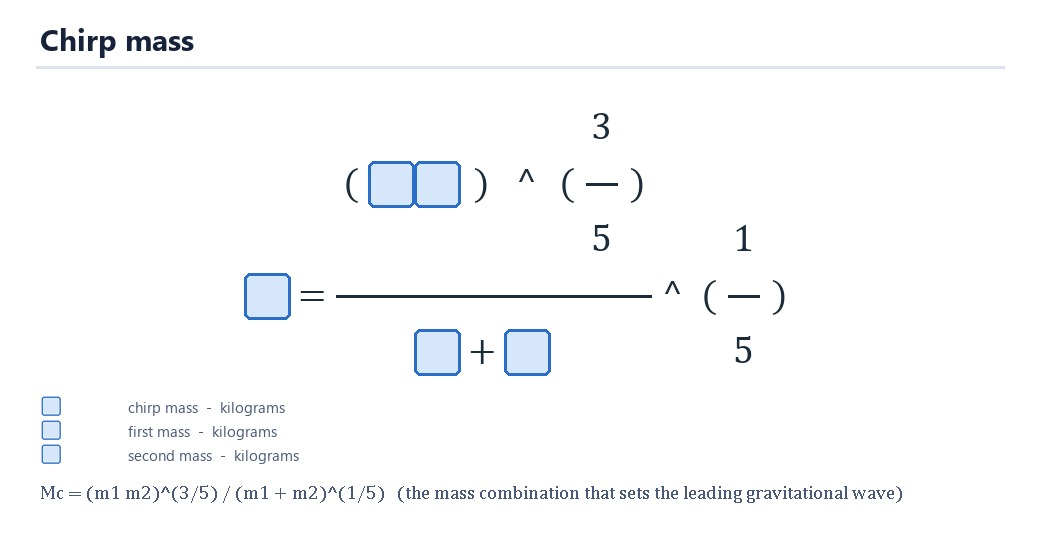
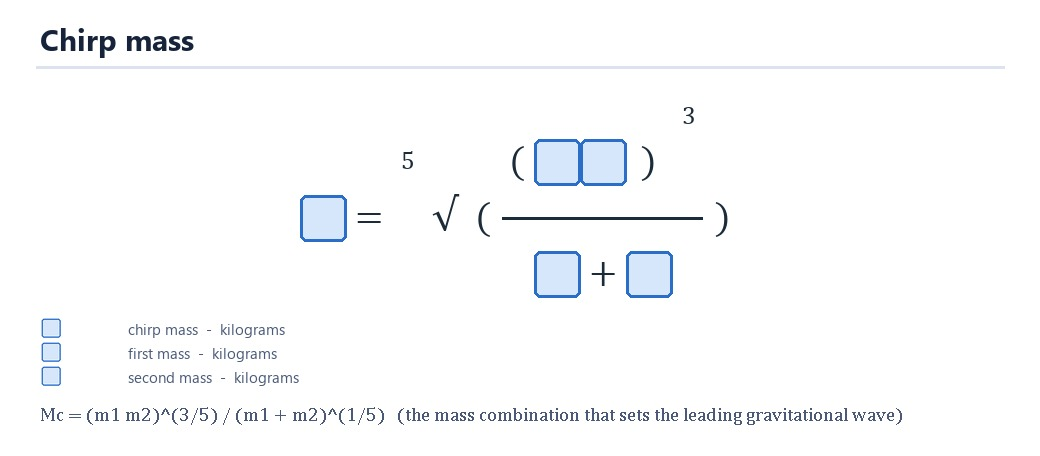
General relativity job 10: TOV pressure step (one thin shell of a static star): 619 operators, 547 calculating; Python and Rust

diff --git a/rust_calculator/src/layouts.rs b/rust_calculator/src/layouts.rs
@@ -475,7 +475,7 @@ pub static LAYOUTS: &[Layout] = &[
     Layout { key: "physics/physics/capacitance", right_box: false, cards: &[card(U, "", -1, 0, N), card(O, "=", -1, 0, N), card(B, "", 0, 0, N), card(O, "×", -1, 0, N), card(B, "", 1, 0, N)] },
     Layout { key: "physics/physics/centre_of_mass", right_box: false, cards: &[card(U, "", -1, 0, N), card(O, "=", -1, 0, N), card(O, "Σ", -1, 0, &[(1, 0)]), card(B, "", 0, 0, &[(1, 0)]), card(B, "", 1, 0, &[(1, 0)]), card(O, "/", -1, 0, &[(1, 2)]), card(O, "Σ", -1, 0, &[(1, 1)]), card(B, "", 0, 0, &[(1, 1)])] },
     Layout { key: "physics/physics/centripetal_acceleration", right_box: false, cards: &[card(U, "", -1, 0, N), card(O, "=", -1, 0, N), card(B, "", 0, 0, &[(1, 0)]), card(O, "2", -1, -1, &[(1, 0)]), card(O, "/", -1, 0, &[(1, 2)]), card(B, "", 1, 0, &[(1, 1)])] },
-    Layout { key: "physics/physics/chirp_mass", right_box: false, cards: &[card(U, "", -1, 0, N), card(O, "=", -1, 0, N), card(O, "(", -1, 0, &[(2, 0)]), card(B, "", 0, 0, &[(2, 0)]), card(B, "", 1, 0, &[(2, 0)]), card(O, ")", -1, 0, &[(2, 0)]), card(O, "^", -1, 0, &[(2, 0)]), card(O, "(", -1, 0, &[(2, 0)]), card(O, "3", -1, 0, &[(2, 0), (1, 0)]), card(O, "/", -1, 0, &[(2, 0), (1, 2)]), card(O, "5", -1, 0, &[(2, 0), (1, 1)]), card(O, ")", -1, 0, &[(2, 0)]), card(O, "/", -1, 0, &[(2, 2)]), card(O, "(", -1, 0, &[(2, 3)]), card(B, "", 0, 0, &[(2, 1)]), card(O, "+", -1, 0, &[(2, 1)]), card(B, "", 1, 0, &[(2, 1)]), card(O, ")", -1, 0, &[(2, 3)]), card(O, "^", -1, 0, N), card(O, "(", -1, 0, N), card(O, "1", -1, 0, &[(3, 0)]), card(O, "/", -1, 0, &[(3, 2)]), card(O, "5", -1, 0, &[(3, 1)]), card(O, ")", -1, 0, N)] },
+    Layout { key: "physics/physics/chirp_mass", right_box: false, cards: &[card(U, "", -1, 0, N), card(O, "=", -1, 0, N), card(O, "5", -1, -1, N), card(O, "√", -1, 0, N), card(O, "(", -1, 0, N), card(O, "(", -1, 0, &[(1, 0)]), card(B, "", 0, 0, &[(1, 0)]), card(B, "", 1, 0, &[(1, 0)]), card(O, ")", -1, 0, &[(1, 0)]), card(O, "3", -1, -1, &[(1, 0)]), card(O, "/", -1, 0, &[(1, 2)]), card(O, "(", -1, 0, &[(1, 3)]), card(B, "", 0, 0, &[(1, 1)]), card(O, "+", -1, 0, &[(1, 1)]), card(B, "", 1, 0, &[(1, 1)]), card(O, ")", -1, 0, &[(1, 3)]), card(O, ")", -1, 0, N)] },
     Layout { key: "physics/physics/closing_speed", right_box: false, cards: &[card(U, "", -1, 0, N), card(O, "=", -1, 0, N), card(O, "−", -1, 0, N), card(B, "", 0, 0, &[(1, 0)]), card(O, "·", -1, 0, &[(1, 0)]), card(B, "", 1, 0, &[(1, 0)]), card(O, "/", -1, 0, &[(1, 2)]), card(O, "|", -1, 0, &[(1, 1)]), card(B, "", 0, 0, &[(1, 1)]), card(O, "|", -1, 0, &[(1, 1)])] },
     Layout { key: "physics/physics/complementary_filter", right_box: false, cards: &[card(U, "", -1, 0, N), card(O, "=", -1, 0, N), card(B, "", 4, 0, N), card(O, "(", -1, 0, N), card(B, "", 0, 0, N), card(O, "+", -1, 0, N), card(B, "", 1, 0, N), card(B, "", 2, 0, N), card(O, ")", -1, 0, N), card(O, "+", -1, 0, N), card(O, "(", -1, 0, N), card(O, "1", -1, 0, N), card(O, "−", -1, 0, N), card(B, "", 4, 0, N), card(O, ")", -1, 0, N), card(B, "", 3, 0, N)] },
     Layout { key: "physics/physics/compton_shift", right_box: false, cards: &[card(U, "", -1, 0, N), card(O, "=", -1, 0, N), card(O, "h", -1, 0, &[(1, 0)]), card(O, "/", -1, 0, &[(1, 2)]), card(O, "(", -1, 0, &[(1, 3)]), card(O, "m", -1, 0, &[(1, 1)]), card(O, "×", -1, 0, &[(1, 1)]), card(O, "c", -1, 0, &[(1, 1)]), card(O, ")", -1, 0, &[(1, 3)]), card(O, "×", -1, 0, N), card(O, "(", -1, 0, N), card(O, "1", -1, 0, N), card(O, "−", -1, 0, N), card(O, "cos", -1, 0, N), card(O, "(", -1, 0, N), card(B, "", 0, 0, N), card(O, ")", -1, 0, N), card(O, ")", -1, 0, N)] },
@@ -506,7 +506,7 @@ pub static LAYOUTS: &[Layout] = &[
     Layout { key: "physics/physics/gravitational_time_dilation", right_box: false, cards: &[card(U, "", -1, 0, N), card(O, "=", -1, 0, N), card(B, "", 0, 0, N), card(O, "×", -1, 0, N), card(O, "√", -1, 0, N), card(O, "(", -1, 0, N), card(O, "1", -1, 0, N), card(O, "−", -1, 0, N), card(O, "2", -1, 0, &[(1, 0)]), card(O, "×", -1, 0, &[(1, 0)]), card(O, "G", -1, 0, &[(1, 0)]), card(O, "×", -1, 0, &[(1, 0)]), card(B, "", 1, 0, &[(1, 0)]), card(O, "/", -1, 0, &[(1, 2)]), card(O, "(", -1, 0, &[(1, 3)]), card(B, "", 2, 0, &[(1, 1)]), card(O, "×", -1, 0, &[(1, 1)]), card(O, "c", -1, 0, &[(1, 1)]), card(O, "2", -1, -1, &[(1, 1)]), card(O, ")", -1, 0, &[(1, 3)]), card(O, ")", -1, 0, N)] },
     Layout { key: "physics/physics/gravitational_time_dilation_from_radius", right_box: false, cards: &[card(U, "", -1, 0, N), card(O, "=", -1, 0, N), card(B, "", 0, 0, N), card(O, "×", -1, 0, N), card(O, "√", -1, 0, N), card(O, "(", -1, 0, N), card(O, "1", -1, 0, N), card(O, "−", -1, 0, N), card(B, "", 1, 0, &[(1, 0)]), card(O, "/", -1, 0, &[(1, 2)]), card(B, "", 2, 0, &[(1, 1)]), card(O, ")", -1, 0, N)] },
     Layout { key: "physics/physics/gravitational_wave_frequency", right_box: false, cards: &[card(U, "", -1, 0, N), card(O, "=", -1, 0, N), card(O, "2", -1, 0, N), card(B, "", 0, 0, N)] },
-    Layout { key: "physics/physics/gravitational_wave_strain", right_box: false, cards: &[card(U, "", -1, 0, N), card(O, "=", -1, 0, N), card(O, "4", -1, 0, &[(3, 0)]), card(O, "(", -1, 0, &[(3, 0)]), card(O, "G", -1, 0, &[(3, 0)]), card(B, "", 0, 0, &[(3, 0)]), card(O, ")", -1, 0, &[(3, 0)]), card(O, "^", -1, 0, &[(3, 0)]), card(O, "(", -1, 0, &[(3, 0)]), card(O, "5", -1, 0, &[(3, 0), (1, 0)]), card(O, "/", -1, 0, &[(3, 0), (1, 2)]), card(O, "3", -1, 0, &[(3, 0), (1, 1)]), card(O, ")", -1, 0, &[(3, 0)]), card(O, "(", -1, 0, &[(3, 0)]), card(O, "π", -1, 0, &[(3, 0)]), card(B, "", 1, 0, &[(3, 0)]), card(O, ")", -1, 0, &[(3, 0)]), card(O, "^", -1, 0, &[(3, 0)]), card(O, "(", -1, 0, &[(3, 0)]), card(O, "2", -1, 0, &[(3, 0), (2, 0)]), card(O, "/", -1, 0, &[(3, 0), (2, 2)]), card(O, "3", -1, 0, &[(3, 0), (2, 1)]), card(O, ")", -1, 0, &[(3, 0)]), card(O, "/", -1, 0, &[(3, 2)]), card(O, "(", -1, 0, &[(3, 3)]), card(O, "c", -1, 0, &[(3, 1)]), card(O, "^", -1, 0, &[(3, 1)]), card(O, "4", -1, 0, &[(3, 1)]), card(B, "", 2, 0, &[(3, 1)]), card(O, ")", -1, 0, &[(3, 3)])] },
+    Layout { key: "physics/physics/gravitational_wave_strain", right_box: false, cards: &[card(U, "", -1, 0, N), card(O, "=", -1, 0, N), card(O, "4", -1, 0, &[(1, 0)]), card(O, "3", -1, -1, &[(1, 0)]), card(O, "√", -1, 0, &[(1, 0)]), card(O, "(", -1, 0, &[(1, 0)]), card(O, "(", -1, 0, &[(1, 0)]), card(O, "G", -1, 0, &[(1, 0)]), card(B, "", 0, 0, &[(1, 0)]), card(O, ")", -1, 0, &[(1, 0)]), card(O, "5", -1, -1, &[(1, 0)]), card(O, "(", -1, 0, &[(1, 0)]), card(O, "π", -1, 0, &[(1, 0)]), card(B, "", 1, 0, &[(1, 0)]), card(O, ")", -1, 0, &[(1, 0)]), card(O, "2", -1, -1, &[(1, 0)]), card(O, ")", -1, 0, &[(1, 0)]), card(O, "/", -1, 0, &[(1, 2)]), card(O, "(", -1, 0, &[(1, 3)]), card(O, "c", -1, 0, &[(1, 1)]), card(O, "4", -1, -1, &[(1, 1)]), card(B, "", 2, 0, &[(1, 1)]), card(O, ")", -1, 0, &[(1, 3)])] },
     Layout { key: "physics/physics/haversine_distance", right_box: false, cards: &[card(U, "", -1, 0, N), card(O, "=", -1, 0, N), card(O, "6371000", -1, 0, N), card(O, "·", -1, 0, N), card(O, "2", -1, 0, N), card(O, "atan2", -1, 0, N), card(O, "(", -1, 0, N), card(O, "√", -1, 0, N), card(O, "a", -1, 0, N), card(O, ",", -1, 0, N), card(O, "√", -1, 0, N), card(O, "(", -1, 0, N), card(O, "1", -1, 0, N), card(O, "−", -1, 0, N), card(O, "a", -1, 0, N), card(O, ")", -1, 0, N), card(O, ")", -1, 0, N), card(O, "with", -1, 0, N), card(O, "a", -1, 0, N), card(O, "=", -1, 0, N), card(O, "sin", -1, 0, N), card(O, "2", -1, -1, N), card(O, "(", -1, 0, N), card(O, "(", -1, 0, &[(1, 3)]), card(B, "", 2, 0, &[(1, 0)]), card(O, "−", -1, 0, &[(1, 0)]), card(B, "", 0, 0, &[(1, 0)]), card(O, ")", -1, 0, &[(1, 3)]), card(O, "/", -1, 0, &[(1, 2)]), card(O, "2", -1, 0, &[(1, 1)]), card(O, ")", -1, 0, N), card(O, "+", -1, 0, N), card(O, "cos", -1, 0, N), card(B, "", 0, 0, N), card(O, "cos", -1, 0, N), card(B, "", 2, 0, N), card(O, "sin", -1, 0, N), card(O, "2", -1, -1, N), card(O, "(", -1, 0, N), card(O, "(", -1, 0, &[(2, 3)]), card(B, "", 3, 0, &[(2, 0)]), card(O, "−", -1, 0, &[(2, 0)]), card(B, "", 1, 0, &[(2, 0)]), card(O, ")", -1, 0, &[(2, 3)]), card(O, "/", -1, 0, &[(2, 2)]), card(O, "2", -1, 0, &[(2, 1)]), card(O, ")", -1, 0, N)] },
     Layout { key: "physics/physics/heat", right_box: false, cards: &[card(U, "", -1, 0, N), card(O, "=", -1, 0, N), card(B, "", 0, 0, N), card(O, "×", -1, 0, N), card(B, "", 1, 0, N), card(O, "×", -1, 0, N), card(B, "", 2, 0, N)] },
     Layout { key: "physics/physics/heisenberg_uncertainty", right_box: false, cards: &[card(B, "", 0, 0, N), card(O, "×", -1, 0, N), card(U, "", -1, 0, N), card(O, "≥", -1, 0, N), card(O, "ħ", -1, 0, &[(1, 0)]), card(O, "/", -1, 0, &[(1, 2)]), card(O, "2", -1, 0, &[(1, 1)])] },
@@ -615,6 +615,7 @@ pub static LAYOUTS: &[Layout] = &[
     Layout { key: "physics/physics/tipping_margin", right_box: false, cards: &[card(U, "", -1, 0, N), card(O, "=", -1, 0, N), card(B, "", 0, 0, N), card(O, "cos", -1, 0, N), card(B, "", 2, 0, N), card(O, "−", -1, 0, N), card(B, "", 1, 0, N), card(O, "sin", -1, 0, N), card(B, "", 2, 0, N)] },
     Layout { key: "physics/physics/torque", right_box: false, cards: &[card(U, "", -1, 0, N), card(O, "=", -1, 0, N), card(B, "", 0, 0, N), card(O, "×", -1, 0, N), card(B, "", 1, 0, N), card(O, "×", -1, 0, N), card(O, "sin", -1, 0, N), card(O, "(", -1, 0, N), card(B, "", 2, 0, N), card(O, ")", -1, 0, N)] },
     Layout { key: "physics/physics/torricelli_speed", right_box: false, cards: &[card(U, "", -1, 0, N), card(O, "=", -1, 0, N), card(O, "√", -1, 0, N), card(O, "(", -1, 0, N), card(O, "2", -1, 0, N), card(O, "×", -1, 0, N), card(O, "g", -1, 0, N), card(O, "×", -1, 0, N), card(B, "", 0, 0, N), card(O, ")", -1, 0, N)] },
+    Layout { key: "physics/physics/tov_pressure_step", right_box: false, cards: &[card(U, "", -1, 0, N), card(O, "=", -1, 0, N), card(O, "−", -1, 0, N), card(B, "", 1, 0, &[(3, 0)]), card(O, "×", -1, 0, &[(3, 0)]), card(O, "(", -1, 0, &[(3, 0)]), card(O, "G", -1, 0, &[(3, 0)]), card(B, "", 2, 0, &[(3, 0)]), card(B, "", 3, 0, &[(3, 0)]), card(O, "(", -1, 0, &[(3, 0)]), card(O, "1", -1, 0, &[(3, 0)]), card(O, "+", -1, 0, &[(3, 0)]), card(B, "", 4, 0, &[(3, 0), (1, 0)]), card(O, "/", -1, 0, &[(3, 0), (1, 2)]), card(O, "(", -1, 0, &[(3, 0), (1, 3)]), card(B, "", 3, 0, &[(3, 0), (1, 1)]), card(O, "c", -1, 0, &[(3, 0), (1, 1)]), card(O, "2", -1, -1, &[(3, 0), (1, 1)]), card(O, ")", -1, 0, &[(3, 0), (1, 3)]), card(O, ")", -1, 0, &[(3, 0)]), card(O, "(", -1, 0, &[(3, 0)]), card(O, "1", -1, 0, &[(3, 0)]), card(O, "+", -1, 0, &[(3, 0)]), card(O, "4", -1, 0, &[(3, 0), (2, 0)]), card(O, "π", -1, 0, &[(3, 0), (2, 0)]), card(B, "", 0, 0, &[(3, 0), (2, 0)]), card(O, "3", -1, -1, &[(3, 0), (2, 0)]), card(B, "", 4, 0, &[(3, 0), (2, 0)]), card(O, "/", -1, 0, &[(3, 0), (2, 2)]), card(O, "(", -1, 0, &[(3, 0), (2, 3)]), card(B, "", 2, 0, &[(3, 0), (2, 1)]), card(O, "c", -1, 0, &[(3, 0), (2, 1)]), card(O, "2", -1, -1, &[(3, 0), (2, 1)]), card(O, ")", -1, 0, &[(3, 0), (2, 3)]), card(O, ")", -1, 0, &[(3, 0)]), card(O, ")", -1, 0, &[(3, 0)]), card(O, "/", -1, 0, &[(3, 2)]), card(O, "(", -1, 0, &[(3, 3)]), card(B, "", 0, 0, &[(3, 1)]), card(O, "2", -1, -1, &[(3, 1)]), card(O, "(", -1, 0, &[(3, 1)]), card(O, "1", -1, 0, &[(3, 1)]), card(O, "−", -1, 0, &[(3, 1)]), card(O, "2", -1, 0, &[(3, 1), (4, 0)]), card(O, "G", -1, 0, &[(3, 1), (4, 0)]), card(B, "", 2, 0, &[(3, 1), (4, 0)]), card(O, "/", -1, 0, &[(3, 1), (4, 2)]), card(O, "(", -1, 0, &[(3, 1), (4, 3)]), card(B, "", 0, 0, &[(3, 1), (4, 1)]), card(O, "c", -1, 0, &[(3, 1), (4, 1)]), card(O, "2", -1, -1, &[(3, 1), (4, 1)]), card(O, ")", -1, 0, &[(3, 1), (4, 3)]), card(O, ")", -1, 0, &[(3, 1)]), card(O, ")", -1, 0, &[(3, 3)])] },
     Layout { key: "physics/physics/turn_radius", right_box: false, cards: &[card(U, "", -1, 0, N), card(O, "=", -1, 0, N), card(B, "", 0, 0, &[(1, 0)]), card(O, "2", -1, -1, &[(1, 0)]), card(O, "/", -1, 0, &[(1, 2)]), card(O, "(", -1, 0, &[(1, 3)]), card(O, "g", -1, 0, &[(1, 1)]), card(O, "tan", -1, 0, &[(1, 1)]), card(B, "", 1, 0, &[(1, 1)]), card(O, ")", -1, 0, &[(1, 3)])] },
     Layout { key: "physics/physics/velocity", right_box: false, cards: &[card(U, "", -1, 0, N), card(O, "=", -1, 0, N), card(B, "", 0, 0, &[(1, 0)]), card(O, "/", -1, 0, &[(1, 2)]), card(B, "", 1, 0, &[(1, 1)])] },
     Layout { key: "physics/physics/velocity_squared", right_box: false, cards: &[card(U, "", -1, 0, N), card(O, "=", -1, 0, N), card(O, "√", -1, 0, N), card(O, "(", -1, 0, N), card(B, "", 0, 0, N), card(O, "2", -1, -1, N), card(O, "+", -1, 0, N), card(O, "2", -1, 0, N), card(O, "×", -1, 0, N), card(B, "", 1, 0, N), card(O, "×", -1, 0, N), card(B, "", 2, 0, N), card(O, ")", -1, 0, N)] },
@@ -750,7 +751,7 @@ pub static WORDS: &[(&str, &[(usize, &str, &str)])] = &[
     ("physics/physics/capacitance", &[(0, "charge", "coulombs"), (2, "capacitance", "farads"), (4, "voltage", "volts")]),
     ("physics/physics/centre_of_mass", &[(0, "centre of mass", "x, y, z in metres"), (3, "masses", "kilograms, one per point"), (4, "positions", "each is x, y, z in metres")]),
     ("physics/physics/centripetal_acceleration", &[(0, "centripetal acceleration", "metres per second squared, toward the centre"), (2, "speed", "metres per second"), (5, "radius", "metres")]),
-    ("physics/physics/chirp_mass", &[(0, "chirp mass", "kilograms"), (3, "first mass", "kilograms"), (4, "second mass", "kilograms")]),
+    ("physics/physics/chirp_mass", &[(0, "chirp mass", "kilograms"), (6, "first mass", "kilograms"), (7, "second mass", "kilograms")]),
     ("physics/physics/closing_speed", &[(0, "closing speed", "metres per second, positive means approaching"), (3, "obstacle from the robot", "x, y, z in metres"), (5, "robot velocity", "metres per second, x, y, z")]),
     ("physics/physics/complementary_filter", &[(0, "angle", "radians, the new estimate"), (2, "gyro weight", "0 takes the measurement, 1 trusts the gyro"), (4, "previous angle", "radians"), (6, "turn rate", "radians per second"), (7, "time step", "seconds"), (15, "measured angle", "radians, from gravity or a compass")]),
     ("physics/physics/compton_shift", &[(0, "wavelength shift", "metres"), (2, "Planck constant", "6.626e-34 J s"), (5, "electron mass", "kilograms"), (7, "speed of light", "299792458 m/s"), (15, "scatter angle", "radians")]),
@@ -781,7 +782,7 @@ pub static WORDS: &[(&str, &[(usize, &str, &str)])] = &[
     ("physics/physics/gravitational_time_dilation", &[(0, "clock time", "seconds on the clock near the mass"), (2, "far-away time", "seconds measured far from the mass"), (10, "gravitational constant", "6.674e-11 N m2/kg2"), (12, "mass", "kilograms"), (15, "distance", "metres from the centre, outside the horizon"), (17, "speed of light", "299792458 m/s")]),
     ("physics/physics/gravitational_time_dilation_from_radius", &[(0, "clock time", "seconds on the clock near the mass"), (2, "far-away time", "seconds measured far from the mass"), (8, "horizon radius", "the answer of the row above, metres"), (10, "distance", "metres from the centre, outside the horizon")]),
     ("physics/physics/gravitational_wave_frequency", &[(0, "wave frequency", "hertz"), (3, "orbital frequency", "hertz, orbits per second")]),
-    ("physics/physics/gravitational_wave_strain", &[(0, "strain h", "dimensionless, face-on"), (4, "gravitational constant", "6.674e-11 N m2/kg2"), (5, "chirp mass", "kilograms"), (15, "wave frequency", "hertz"), (25, "speed of light", "299792458 m/s"), (28, "distance", "metres to the binary")]),
+    ("physics/physics/gravitational_wave_strain", &[(0, "strain h", "dimensionless, face-on"), (7, "gravitational constant", "6.674e-11 N m2/kg2"), (8, "chirp mass", "kilograms"), (13, "wave frequency", "hertz"), (19, "speed of light", "299792458 m/s"), (21, "distance", "metres to the binary")]),
     ("physics/physics/haversine_distance", &[(0, "distance", "metres along the surface"), (24, "second latitude", "radians, north is positive"), (26, "first latitude", "radians, north is positive"), (40, "second longitude", "radians, east is positive"), (42, "first longitude", "radians, east is positive")]),
     ("physics/physics/heat", &[(0, "heat", "joules"), (2, "mass", "kilograms"), (4, "specific heat", "joules per kilogram per kelvin"), (6, "temperature change", "kelvin")]),
     ("physics/physics/heisenberg_uncertainty", &[(0, "position uncertainty", "metres"), (2, "momentum uncertainty", "smallest possible, kg m/s")]),
@@ -890,6 +891,7 @@ pub static WORDS: &[(&str, &[(usize, &str, &str)])] = &[
     ("physics/physics/tipping_margin", &[(0, "margin", "metres from the downhill foot to where the weight falls, positive stays upright"), (2, "half the stance", "metres from the centre to the downhill foot"), (4, "slope", "radians above the horizontal"), (6, "centre of mass height", "metres")]),
     ("physics/physics/torque", &[(0, "torque", "newton metres"), (2, "lever arm", "metres"), (4, "force", "newtons"), (8, "angle", "radians between the arm and the force")]),
     ("physics/physics/torricelli_speed", &[(0, "exit speed", "metres per second"), (6, "gravity", "9.81 m/s2"), (8, "depth", "metres from the surface to the hole")]),
+    ("physics/physics/tov_pressure_step", &[(0, "pressure change", "pascals, outward across the shell"), (3, "shell thickness", "metres, outward"), (6, "gravitational constant", "6.674e-11 N m2/kg2"), (7, "interior mass", "kilograms already inside r"), (8, "density", "kilograms per cubic metre"), (12, "pressure", "pascals at r"), (16, "speed of light", "299792458 m/s"), (25, "radius", "metres from the centre")]),
     ("physics/physics/turn_radius", &[(0, "radius", "metres, negative turns the other way"), (2, "speed", "metres per second"), (6, "gravity", "9.81 m/s2"), (8, "bank angle", "radians, positive to the left")]),
     ("physics/physics/velocity", &[(0, "velocity", "metres per second"), (2, "displacement", "metres"), (4, "time", "seconds")]),
     ("physics/physics/velocity_squared", &[(0, "final speed", "metres per second"), (4, "starting speed", "metres per second"), (9, "acceleration", "metres per second squared"), (11, "distance", "metres")]),

diff --git a/operator_row_math/physics/physics/tov_pressure_step/tov_pressure_step.py b/operator_row_math/physics/physics/tov_pressure_step/tov_pressure_step.py
@@ -1,0 +1,33 @@
+"""Row for the operator: Weight
+
+Picture:      □ = − □ × ( G □ □ ( 1 + □ / ( □ c ² ) ) ( 1 + 4 π □ ³ □ / ( □ c ² ) ) ) / ( □ ² ( 1 − 2 G □ / ( □ c ² ) ) )
+Calculation:  ready - fill the boxes, press = and the sum appears right of =
+Try it:       python operator_row_math/preview.py physics/physics/tov_pressure_step
+"""
+import os
+import sys
+
+sys.path.insert(0, os.path.dirname(os.path.dirname(os.path.dirname(os.path.dirname(os.path.dirname(os.path.abspath(__file__)))))))
+from operator_row_math.row_builder import build_row  # noqa: E402
+
+NAME = 'TOV pressure step'
+KEY = 'physics/physics/tov_pressure_step'
+PATTERN = '□ = − □ × ( G □ □ ( 1 + □ / ( □ c ² ) ) ( 1 + 4 π □ ³ □ / ( □ c ² ) ) ) / ( □ ² ( 1 − 2 G □ / ( □ c ² ) ) )'
+# "ready"     = the boxes on the left feed compute() and the sum shows right of "="
+# "reference" = formula only (no calculation yet)
+# "advanced"  = needs a list / matrix / function / set / graph: use the Advanced Input window
+CALC = 'ready'
+INPUTS = ['r', 'dr', 'M', 'rho', 'P']
+KINDS = ['number', 'number', 'number', 'number', 'number']
+SLOTS = [1, 2, 3, 4, 3, 0, 4, 2, 0, 2, 0]    # which input each box of LEFT shows (an input the picture writes twice has two boxes that share one value)
+LEVELS = [0, 0, 0, 0, 0, 0, 0, 0, 0, 0, 0, 0, 0, 0, 0, 0, 0, -1, 0, 0, 0, 0, 0, 0, 0, 0, -1, 0, 0, 0, 0, 0, -1, 0, 0, 0, 0, 0, 0, -1, 0, 0, 0, 0, 0, 0, 0, 0, 0, 0, -1, 0, 0, 0]    # the grid row of each card of LEFT: -1 = an exponent (one row up), +1 = a subscript or lower limit (one row down), 0 = on the line
+WORDS = {0: ('pressure change', 'pascals, outward across the shell'), 3: ('shell thickness', 'metres, outward'), 6: ('gravitational constant', '6.674e-11 N m2/kg2'), 7: ('interior mass', 'kilograms already inside r'), 8: ('density', 'kilograms per cubic metre'), 12: ('pressure', 'pascals at r'), 16: ('speed of light', '299792458 m/s'), 25: ('radius', 'metres from the centre')}    # the words each card of LEFT carries, {card index: (label, context)}: shown in the card's Label and Context boxes when the operator is used
+FRAC = [[], [], [], [[3, 'n']], [[3, 'n']], [[3, 'n']], [[3, 'n']], [[3, 'n']], [[3, 'n']], [[3, 'n']], [[3, 'n']], [[3, 'n']], [[3, 'n'], [1, 'n']], [[3, 'n'], [1, 'bar']], [[3, 'n'], [1, 'hide']], [[3, 'n'], [1, 'd']], [[3, 'n'], [1, 'd']], [[3, 'n'], [1, 'd']], [[3, 'n'], [1, 'hide']], [[3, 'n']], [[3, 'n']], [[3, 'n']], [[3, 'n']], [[3, 'n'], [2, 'n']], [[3, 'n'], [2, 'n']], [[3, 'n'], [2, 'n']], [[3, 'n'], [2, 'n']], [[3, 'n'], [2, 'n']], [[3, 'n'], [2, 'bar']], [[3, 'n'], [2, 'hide']], [[3, 'n'], [2, 'd']], [[3, 'n'], [2, 'd']], [[3, 'n'], [2, 'd']], [[3, 'n'], [2, 'hide']], [[3, 'n']], [[3, 'n']], [[3, 'bar']], [[3, 'hide']], [[3, 'd']], [[3, 'd']], [[3, 'd']], [[3, 'd']], [[3, 'd']], [[3, 'd'], [4, 'n']], [[3, 'd'], [4, 'n']], [[3, 'd'], [4, 'n']], [[3, 'd'], [4, 'bar']], [[3, 'd'], [4, 'hide']], [[3, 'd'], [4, 'd']], [[3, 'd'], [4, 'd']], [[3, 'd'], [4, 'd']], [[3, 'd'], [4, 'hide']], [[3, 'd']], [[3, 'hide']]]    # for each card of LEFT the fractions it is inside: (group, n = numerator on the row above | d = denominator on the row below | bar | hide = not drawn)
+# ("box", "")  = small square box card      ("op", text) = operator card
+LEFT = [('out', ''), ('op', '='), ('op', '−'), ('box', ''), ('op', '×'), ('op', '('), ('op', 'G'), ('box', ''), ('box', ''), ('op', '('), ('op', '1'), ('op', '+'), ('box', ''), ('op', '/'), ('op', '('), ('box', ''), ('op', 'c'), ('op', '2'), ('op', ')'), ('op', ')'), ('op', '('), ('op', '1'), ('op', '+'), ('op', '4'), ('op', 'π'), ('box', ''), ('op', '3'), ('box', ''), ('op', '/'), ('op', '('), ('box', ''), ('op', 'c'), ('op', '2'), ('op', ')'), ('op', ')'), ('op', ')'), ('op', '/'), ('op', '('), ('box', ''), ('op', '2'), ('op', '('), ('op', '1'), ('op', '−'), ('op', '2'), ('op', 'G'), ('box', ''), ('op', '/'), ('op', '('), ('box', ''), ('op', 'c'), ('op', '2'), ('op', ')'), ('op', ')'), ('op', ')')]      # cards left of "="
+RIGHT = []    # cards right of "="  (the result box = Row 1's number card)
+
+
+def place(parent, stacked=False):
+    """Create this operator's row inside `parent` and return the Frame (caller grids/packs it)."""
+    return build_row(parent, LEFT, RIGHT, stacked, levels=globals().get("LEVELS"), fracs=globals().get("FRAC"))

diff --git a/operator_row_math/physics/physics/gravitational_wave_strain/gravitational_wave_strain.py b/operator_row_math/physics/physics/gravitational_wave_strain/gravitational_wave_strain.py
@@ -1,6 +1,6 @@
 """Row for the operator: Weight
 
-Picture:      □ = 4 ( G □ ) ^ ( 5 / 3 ) ( π □ ) ^ ( 2 / 3 ) / ( c ^ 4 □ )
+Picture:      □ = 4 ³ √ ( ( G □ ) ⁵ ( π □ ) ² ) / ( c ⁴ □ )
 Calculation:  ready - fill the boxes, press = and the sum appears right of =
 Try it:       python operator_row_math/preview.py physics/physics/gravitational_wave_strain
 """
@@ -12,17 +12,18 @@ from operator_row_math.row_builder import build_row  # noqa: E402
 
 NAME = 'Gravitational-wave strain'
 KEY = 'physics/physics/gravitational_wave_strain'
-PATTERN = '□ = 4 ( G □ ) ^ ( 5 / 3 ) ( π □ ) ^ ( 2 / 3 ) / ( c ^ 4 □ )'
+PATTERN = '□ = 4 ³ √ ( ( G □ ) ⁵ ( π □ ) ² ) / ( c ⁴ □ )'
 # "ready"     = the boxes on the left feed compute() and the sum shows right of "="
 # "reference" = formula only (no calculation yet)
 # "advanced"  = needs a list / matrix / function / set / graph: use the Advanced Input window
 CALC = 'ready'
 INPUTS = ['chirp_mass', 'f_gw', 'distance']    # what each box (left to right) is
 KINDS = ['number', 'number', 'number']    # what to type in each box (see advanced_input.KINDS)
-WORDS = {0: ('strain h', 'dimensionless, face-on'), 4: ('gravitational constant', '6.674e-11 N m2/kg2'), 5: ('chirp mass', 'kilograms'), 15: ('wave frequency', 'hertz'), 25: ('speed of light', '299792458 m/s'), 28: ('distance', 'metres to the binary')}    # the words each card of LEFT carries, {card index: (label, context)}: shown in the card's Label and Context boxes when the operator is used
-FRAC = [[], [], [[3, 'n']], [[3, 'n']], [[3, 'n']], [[3, 'n']], [[3, 'n']], [[3, 'n']], [[3, 'n']], [[3, 'n'], [1, 'n']], [[3, 'n'], [1, 'bar']], [[3, 'n'], [1, 'd']], [[3, 'n']], [[3, 'n']], [[3, 'n']], [[3, 'n']], [[3, 'n']], [[3, 'n']], [[3, 'n']], [[3, 'n'], [2, 'n']], [[3, 'n'], [2, 'bar']], [[3, 'n'], [2, 'd']], [[3, 'n']], [[3, 'bar']], [[3, 'hide']], [[3, 'd']], [[3, 'd']], [[3, 'd']], [[3, 'd']], [[3, 'hide']]]    # for each card of LEFT the fractions it is inside: (group, n = numerator on the row above | d = denominator on the row below | bar | hide = not drawn)
+LEVELS = [0, 0, 0, -1, 0, 0, 0, 0, 0, 0, -1, 0, 0, 0, 0, -1, 0, 0, 0, 0, -1, 0, 0]    # the grid row of each card of LEFT: -1 = an exponent (one row up), +1 = a subscript or lower limit (one row down), 0 = on the line
+WORDS = {0: ('strain h', 'dimensionless, face-on'), 7: ('gravitational constant', '6.674e-11 N m2/kg2'), 8: ('chirp mass', 'kilograms'), 13: ('wave frequency', 'hertz'), 19: ('speed of light', '299792458 m/s'), 21: ('distance', 'metres to the binary')}    # the words each card of LEFT carries, {card index: (label, context)}: shown in the card's Label and Context boxes when the operator is used
+FRAC = [[], [], [[1, 'n']], [[1, 'n']], [[1, 'n']], [[1, 'n']], [[1, 'n']], [[1, 'n']], [[1, 'n']], [[1, 'n']], [[1, 'n']], [[1, 'n']], [[1, 'n']], [[1, 'n']], [[1, 'n']], [[1, 'n']], [[1, 'n']], [[1, 'bar']], [[1, 'hide']], [[1, 'd']], [[1, 'd']], [[1, 'd']], [[1, 'hide']]]    # for each card of LEFT the fractions it is inside: (group, n = numerator on the row above | d = denominator on the row below | bar | hide = not drawn)
 # ("box", "")  = small square box card      ("op", text) = operator card
-LEFT = [('out', ''), ('op', '='), ('op', '4'), ('op', '('), ('op', 'G'), ('box', ''), ('op', ')'), ('op', '^'), ('op', '('), ('op', '5'), ('op', '/'), ('op', '3'), ('op', ')'), ('op', '('), ('op', 'π'), ('box', ''), ('op', ')'), ('op', '^'), ('op', '('), ('op', '2'), ('op', '/'), ('op', '3'), ('op', ')'), ('op', '/'), ('op', '('), ('op', 'c'), ('op', '^'), ('op', '4'), ('box', ''), ('op', ')')]      # cards left of "="
+LEFT = [('out', ''), ('op', '='), ('op', '4'), ('op', '3'), ('op', '√'), ('op', '('), ('op', '('), ('op', 'G'), ('box', ''), ('op', ')'), ('op', '5'), ('op', '('), ('op', 'π'), ('box', ''), ('op', ')'), ('op', '2'), ('op', ')'), ('op', '/'), ('op', '('), ('op', 'c'), ('op', '4'), ('box', ''), ('op', ')')]      # cards left of "="
 RIGHT = []    # cards right of "="  (the result box = Row 1's number card)
 
 

diff --git a/tests/test_operators.py b/tests/test_operators.py
@@ -56,7 +56,7 @@ class StructureTests(unittest.TestCase):
         cls.ops = load_all()
 
     def test_operator_count(self):
-        self.assertEqual(len(self.ops), 618)
+        self.assertEqual(len(self.ops), 619)
 
     def test_every_operator_has_required_metadata(self):
         for key, m in self.ops.items():
@@ -87,7 +87,7 @@ class StructureTests(unittest.TestCase):
         text = _index_text()
         status = {m.group(2): m.group(1)
                   for m in re.finditer(r"\| (Ready|Reference) \| `([^`]+)/` \|", text)}
-        self.assertEqual(len(status), 618)
+        self.assertEqual(len(status), 619)
         for key, st in status.items():
             if st == "Reference":
                 with self.assertRaises(NotImplementedError, msg=key):
@@ -296,6 +296,8 @@ CASES = [
     (PH + "chirp_mass", (1, 1), 0.8705505632961241), (PH + "chirp_mass", (2, 2), 1.7411011265922482),
     (PH + "gravitational_wave_strain", (1, 1, 1), 1.166417692781491e-50), (PH + "gravitational_wave_strain", (1.3466514515085672e+27, 1, 1), 1.915488009903443e-05),
     (PH + "gravitational_wave_strain", (1, 0, 1), 0),
+    (PH + "tov_pressure_step", (1000000, 1, 1e24, 1000, 0), -66740.00009911992),
+    (PH + "tov_pressure_step", (10000, 0.01, 1e27, 1e17, 1e30), -7.609133368347511e+23),   # the work plan rounds this to -7.60913336834751e+23
     (PH + "weight", (2,), 19.62), (PH + "work", (3, 4), 12),
     # ---- discrete & number theory
     (DN + "combinations", (5, 2), 10), (DN + "combinations", (5, 0), 1), (DN + "combinations", (10, 10), 1),
@@ -1404,6 +1406,33 @@ class GravitationalWaveTests(unittest.TestCase):
 
 
 # --------------------------------------------------------------------------- 3. error handling
+class TovPressureStepTests(unittest.TestCase):
+    """General relativity, job 10: one thin shell of the Tolman-Oppenheimer-Volkoff equation."""
+
+    def says(self, args, text):
+        with self.assertRaises(ValueError, msg=str(args)) as ctx:
+            get(PH + "tov_pressure_step").compute(*args)
+        self.assertIn(text, str(ctx.exception))
+
+    def test_the_declines(self):
+        self.says((0, 1, 1e24, 1000, 0), "a radius must be positive")
+        self.says((1e6, 0, 1e24, 1000, 0), "the shell thickness must be positive")
+        self.says((1e6, 1, 0, 1000, 0), "mass must be positive")
+        self.says((1e6, 1, 1e24, 0, 0), "density must be positive")
+        self.says((1e6, 1, 1e24, 1000, -1), "pressure cannot be negative")
+        self.says((1, 1, 1e27, 1000, 0), "r is not outside the horizon")
+        rs = get(PH + "schwarzschild_radius").compute(1e27)
+        self.says((rs, 1, 1e27, 1000, 0), "r is not outside the horizon")     # exactly on the horizon
+
+    def test_the_physics(self):
+        step = get(PH + "tov_pressure_step").compute
+        self.assertLess(step(1e6, 1, 1e24, 1000, 0), 0)                            # pressure drops outward
+        self.assertAlmostEqual(step(1e6, 2, 1e24, 1000, 0), 2 * step(1e6, 1, 1e24, 1000, 0), delta=1e-9 * 66740)   # linear in the thickness
+        newton = -6.674e-11 * 1e24 * 1000 / 1e12                                    # weak field, P = 0: the Newtonian -G M rho / r^2
+        self.assertAlmostEqual(step(1e6, 1, 1e24, 1000, 0) / newton, 1, places=6)
+        self.assertLess(step(1e4, 1, 1e27, 1e17, 1e30), step(1e4, 1, 1e27, 1e17, 0))   # pressure makes gravity stronger
+
+
 class ErrorTests(unittest.TestCase):
     """Invalid input must raise a clear exception, never return a silent wrong number."""
 

diff --git a/operator_row_math/physics/physics/chirp_mass/chirp_mass.py b/operator_row_math/physics/physics/chirp_mass/chirp_mass.py
@@ -1,6 +1,6 @@
 """Row for the operator: Weight
 
-Picture:      □ = ( □ □ ) ^ ( 3 / 5 ) / ( □ + □ ) ^ ( 1 / 5 )
+Picture:      □ = ⁵ √ ( ( □ □ ) ³ / ( □ + □ ) )
 Calculation:  ready - fill the boxes, press = and the sum appears right of =
 Try it:       python operator_row_math/preview.py physics/physics/chirp_mass
 """
@@ -12,7 +12,7 @@ from operator_row_math.row_builder import build_row  # noqa: E402
 
 NAME = 'Chirp mass'
 KEY = 'physics/physics/chirp_mass'
-PATTERN = '□ = ( □ □ ) ^ ( 3 / 5 ) / ( □ + □ ) ^ ( 1 / 5 )'
+PATTERN = '□ = ⁵ √ ( ( □ □ ) ³ / ( □ + □ ) )'
 # "ready"     = the boxes on the left feed compute() and the sum shows right of "="
 # "reference" = formula only (no calculation yet)
 # "advanced"  = needs a list / matrix / function / set / graph: use the Advanced Input window
@@ -20,10 +20,11 @@ CALC = 'ready'
 INPUTS = ['m1', 'm2']    # what each box (left to right) is
 KINDS = ['number', 'number']    # what to type in each box (see advanced_input.KINDS)
 SLOTS = [0, 1, 0, 1]    # which input each box of LEFT shows (an input the picture writes twice has two boxes that share one value)
-WORDS = {0: ('chirp mass', 'kilograms'), 3: ('first mass', 'kilograms'), 4: ('second mass', 'kilograms')}    # the words each card of LEFT carries, {card index: (label, context)}: shown in the card's Label and Context boxes when the operator is used
-FRAC = [[], [], [[2, 'n']], [[2, 'n']], [[2, 'n']], [[2, 'n']], [[2, 'n']], [[2, 'n']], [[2, 'n'], [1, 'n']], [[2, 'n'], [1, 'bar']], [[2, 'n'], [1, 'd']], [[2, 'n']], [[2, 'bar']], [[2, 'hide']], [[2, 'd']], [[2, 'd']], [[2, 'd']], [[2, 'hide']], [], [], [[3, 'n']], [[3, 'bar']], [[3, 'd']], []]    # for each card of LEFT the fractions it is inside: (group, n = numerator on the row above | d = denominator on the row below | bar | hide = not drawn)
+LEVELS = [0, 0, -1, 0, 0, 0, 0, 0, 0, -1, 0, 0, 0, 0, 0, 0, 0]    # the grid row of each card of LEFT: -1 = an exponent (one row up), +1 = a subscript or lower limit (one row down), 0 = on the line
+WORDS = {0: ('chirp mass', 'kilograms'), 6: ('first mass', 'kilograms'), 7: ('second mass', 'kilograms')}    # the words each card of LEFT carries, {card index: (label, context)}: shown in the card's Label and Context boxes when the operator is used
+FRAC = [[], [], [], [], [], [[1, 'n']], [[1, 'n']], [[1, 'n']], [[1, 'n']], [[1, 'n']], [[1, 'bar']], [[1, 'hide']], [[1, 'd']], [[1, 'd']], [[1, 'd']], [[1, 'hide']], []]    # for each card of LEFT the fractions it is inside: (group, n = numerator on the row above | d = denominator on the row below | bar | hide = not drawn)
 # ("box", "")  = small square box card      ("op", text) = operator card
-LEFT = [('out', ''), ('op', '='), ('op', '('), ('box', ''), ('box', ''), ('op', ')'), ('op', '^'), ('op', '('), ('op', '3'), ('op', '/'), ('op', '5'), ('op', ')'), ('op', '/'), ('op', '('), ('box', ''), ('op', '+'), ('box', ''), ('op', ')'), ('op', '^'), ('op', '('), ('op', '1'), ('op', '/'), ('op', '5'), ('op', ')')]      # cards left of "="
+LEFT = [('out', ''), ('op', '='), ('op', '5'), ('op', '√'), ('op', '('), ('op', '('), ('box', ''), ('box', ''), ('op', ')'), ('op', '3'), ('op', '/'), ('op', '('), ('box', ''), ('op', '+'), ('box', ''), ('op', ')'), ('op', ')')]      # cards left of "="
 RIGHT = []    # cards right of "="  (the result box = Row 1's number card)
 
 

diff --git a/rust_calculator/src/ops/generated.rs b/rust_calculator/src/ops/generated.rs
@@ -6467,7 +6467,7 @@ pub const GENERATED: &[Operator] = &[
         category: "Physics",
         subcategory: "Physics",
         formula: "Mc = (m1 m2)^(3/5) / (m1 + m2)^(1/5)   (the mass combination that sets the leading gravitational wave)",
-        pattern: "□ = ( □ □ ) ^ ( 3 / 5 ) / ( □ + □ ) ^ ( 1 / 5 )",
+        pattern: "□ = ⁵ √ ( ( □ □ ) ³ / ( □ + □ ) )",
         inputs: &["m1", "m2"],
         calc: CalcKind::Ready,
         extra: &[],
@@ -6963,7 +6963,7 @@ pub const GENERATED: &[Operator] = &[
         category: "Physics",
         subcategory: "Physics",
         formula: "h = 4 (G Mc)^(5/3) (π f)^(2/3) / (c⁴ d)   (leading-order amplitude of a face-on circular binary at distance d; f is the wave frequency, twice the orbital frequency; G = 6.674e-11, c = 299792458)",
-        pattern: "□ = 4 ( G □ ) ^ ( 5 / 3 ) ( π □ ) ^ ( 2 / 3 ) / ( c ^ 4 □ )",
+        pattern: "□ = 4 ³ √ ( ( G □ ) ⁵ ( π □ ) ² ) / ( c ⁴ □ )",
         inputs: &["chirp_mass", "f_gw", "distance"],
         calc: CalcKind::Ready,
         extra: &[("G", 6.674e-11), ("c", 299792458.0)],
@@ -8602,6 +8602,22 @@ pub const GENERATED: &[Operator] = &[
         variadic: false,
         kinds: &[],
         compute: physics::torricelli_speed,
+        compute_v: None,
+    },
+    Operator {
+        key: "physics/physics/tov_pressure_step",
+        name: "TOV pressure step",
+        symbol: "one shell of dP/dr",
+        category: "Physics",
+        subcategory: "Physics",
+        formula: "ΔP = −(G M ρ / r²) (1 + P/(ρ c²)) (1 + 4π r³ P / (M c²)) / (1 − 2GM/(r c²)) Δr   (the pressure change across one thin shell of a static spherical star, Tolman–Oppenheimer–Volkoff; M is the mass already inside r; G = 6.674e-11, c = 299792458)",
+        pattern: "□ = − □ × ( G □ □ ( 1 + □ / ( □ c ² ) ) ( 1 + 4 π □ ³ □ / ( □ c ² ) ) ) / ( □ ² ( 1 − 2 G □ / ( □ c ² ) ) )",
+        inputs: &["r", "dr", "M", "rho", "P"],
+        calc: CalcKind::Ready,
+        extra: &[("G", 6.674e-11), ("c", 299792458.0)],
+        variadic: false,
+        kinds: &[],
+        compute: physics::tov_pressure_step,
         compute_v: None,
     },
     Operator {

diff --git a/rust_calculator/tests/nested.rs b/rust_calculator/tests/nested.rs
@@ -1034,3 +1034,24 @@ fn the_gravitational_wave_operators_give_the_numbers_of_the_work_plan_and_declin
     assert!(call("gravitational_wave_strain", &[1., 1., 0., g, c]).unwrap_err().contains("a distance must be positive"));
     assert!(call("gravitational_wave_strain", &[1., -1., 1., g, c]).unwrap_err().contains("a frequency cannot be negative"));
 }
+
+#[test]
+fn the_tov_pressure_step_gives_the_numbers_of_the_work_plan_and_declines_with_its_messages() {
+    use rust_calculator::value::Value;
+    let call = |xs: &[f64]| -> Result<f64, String> {
+        match (ops::get("physics/physics/tov_pressure_step").unwrap().compute)(xs)? {
+            Value::Number(x) => Ok(x),
+            o => panic!("{o:?}"),
+        }
+    };
+    let (g, c) = (6.674e-11, 299792458.0);
+    assert_eq!(call(&[1e6, 1., 1e24, 1000., 0., g, c]).unwrap(), -66740.00009911992);
+    let relativistic = call(&[1e4, 0.01, 1e27, 1e17, 1e30, g, c]).unwrap();
+    assert!((relativistic / -7.60913336834751e+23 - 1.0).abs() < 1e-14);
+    assert!(call(&[0., 1., 1e24, 1000., 0., g, c]).unwrap_err().contains("a radius must be positive"));
+    assert!(call(&[1e6, 0., 1e24, 1000., 0., g, c]).unwrap_err().contains("the shell thickness must be positive"));
+    assert!(call(&[1e6, 1., 0., 1000., 0., g, c]).unwrap_err().contains("mass must be positive"));
+    assert!(call(&[1e6, 1., 1e24, 0., 0., g, c]).unwrap_err().contains("density must be positive"));
+    assert!(call(&[1e6, 1., 1e24, 1000., -1., g, c]).unwrap_err().contains("pressure cannot be negative"));
+    assert!(call(&[1., 1., 1e27, 1000., 0., g, c]).unwrap_err().contains("r is not outside the horizon"));
+}

diff --git a/operators_one_operator_per_file/physics/physics/tov_pressure_step/tov_pressure_step.py b/operators_one_operator_per_file/physics/physics/tov_pressure_step/tov_pressure_step.py
@@ -1,0 +1,31 @@
+"""TOV pressure step   [ΔP = (dP/dr) Δr, one shell of a static spherical star]
+
+Category : Physics > Physics
+Formula  : ΔP = −(G M ρ / r²) (1 + P/(ρ c²)) (1 + 4π r³ P / (M c²)) / (1 − 2GM/(r c²)) Δr   (one thin shell of the Tolman–Oppenheimer–Volkoff equation; M is the mass already inside r; G = 6.674e-11, c = 299792458)
+
+Status   : ready to use - call compute(r, dr, M, rho, P, G=6.674e-11, c=299792458)
+"""
+import math
+
+NAME = 'TOV pressure step'
+SYMBOL = 'one shell of dP/dr'
+CATEGORY = 'Physics'
+SUBCATEGORY = 'Physics'
+FORMULA = 'ΔP = −(G M ρ / r²) (1 + P/(ρ c²)) (1 + 4π r³ P / (M c²)) / (1 − 2GM/(r c²)) Δr   (the pressure change across one thin shell of a static spherical star, Tolman–Oppenheimer–Volkoff; M is the mass already inside r; G = 6.674e-11, c = 299792458)'
+
+
+def compute(r, dr, M, rho, P, G=6.674e-11, c=299792458):
+    """pressure change in pascals across a shell of thickness dr (negative for a normal star)"""
+    if r <= 0:
+        raise ValueError("a radius must be positive")
+    if dr <= 0:
+        raise ValueError("the shell thickness must be positive")
+    if M <= 0:
+        raise ValueError("mass must be positive")
+    if rho <= 0:
+        raise ValueError("density must be positive")
+    if P < 0:
+        raise ValueError("pressure cannot be negative")
+    if 2 * G * M / (r * c ** 2) >= 1:
+        raise ValueError("r is not outside the horizon")
+    return -(G * M * rho / r ** 2) * (1 + P / (rho * c ** 2)) * (1 + 4 * math.pi * r ** 3 * P / (M * c ** 2)) / (1 - 2 * G * M / (r * c ** 2)) * dr

diff --git a/rust_calculator/src/ops/physics.rs b/rust_calculator/src/ops/physics.rs
@@ -758,3 +758,17 @@ pub fn gravitational_wave_strain(a: &[f64]) -> R {
     need(a[1] >= 0.0, "a frequency cannot be negative")?;
     n(4.0 * (a[3] * a[0]).powf(5.0 / 3.0) * (std::f64::consts::PI * a[1]).powf(2.0 / 3.0) / (a[4].powf(4.0) * a[2]))
 }
+
+// ---------- one thin shell of the Tolman-Oppenheimer-Volkoff equation (general relativity, job 10; the same operations as the Python file) ----------
+
+pub fn tov_pressure_step(a: &[f64]) -> R {
+    // r, dr, M, rho, P, G, c
+    let (r, dr, m, rho, p, g, c) = (a[0], a[1], a[2], a[3], a[4], a[5], a[6]);
+    need(r > 0.0, "a radius must be positive")?;
+    need(dr > 0.0, "the shell thickness must be positive")?;
+    need(m > 0.0, "mass must be positive")?;
+    need(rho > 0.0, "density must be positive")?;
+    need(p >= 0.0, "pressure cannot be negative")?;
+    need(2.0 * g * m / (r * c.powi(2)) < 1.0, "r is not outside the horizon")?;
+    n(-(g * m * rho / r.powi(2)) * (1.0 + p / (rho * c.powi(2))) * (1.0 + 4.0 * std::f64::consts::PI * r.powf(3.0) * p / (m * c.powi(2))) / (1.0 - 2.0 * g * m / (r * c.powi(2))) * dr)
+}

diff --git a/tests/test_operator_pictures.py b/tests/test_operator_pictures.py
@@ -21,7 +21,7 @@ KINDS = {"box", "out", "dec", "op"}
 class RowFiles(unittest.TestCase):
     def test_every_row_is_well_formed(self):
         keys = rows.keys()
-        self.assertEqual(len(keys), 618)
+        self.assertEqual(len(keys), 619)
         for key in keys:
             m = rows.get(key)
             self.assertTrue(m.LEFT, key)
@@ -123,7 +123,7 @@ class RustPort(unittest.TestCase):
         sys.path.insert(0, os.path.join(ROOT, "operator_keys"))
         import make_rust_layouts as generator
         text, count = generator.build_text()
-        self.assertEqual(count, 618)
+        self.assertEqual(count, 619)
         with open(generator.OUT, encoding="utf-8", newline="") as f:
             self.assertEqual(f.read().replace("\r\n", "\n"), text)
 

diff --git a/rust_calculator/tests/ops_smoke.rs b/rust_calculator/tests/ops_smoke.rs
@@ -79,6 +79,6 @@ fn row_accepts_typed_values() {
 fn every_ready_operator_has_a_calculation() {
     use rust_calculator::operator::CalcKind;
     let ready = ops::all_operators().iter().filter(|o| o.calc == CalcKind::Ready).count();
-    assert_eq!(ready, 546, "the Python library has 546 Ready operators");
-    assert_eq!(ops::all_operators().len(), 618);
+    assert_eq!(ready, 547, "the Python library has 547 Ready operators");
+    assert_eq!(ops::all_operators().len(), 619);
 }

diff --git a/rust_calculator/src/layout.rs b/rust_calculator/src/layout.rs
@@ -342,7 +342,7 @@ mod tests {
 
     #[test]
     fn every_operator_has_a_layout_whose_boxes_are_its_inputs() {
-        assert_eq!(crate::layouts::LAYOUTS.len(), 618);
+        assert_eq!(crate::layouts::LAYOUTS.len(), 619);
         for l in crate::layouts::LAYOUTS {
             let op = crate::ops::get(l.key).unwrap_or_else(|| panic!("no operator for layout {}", l.key));
             for c in l.cards {
